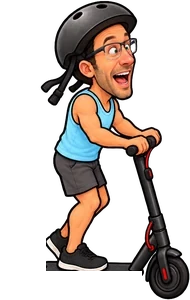
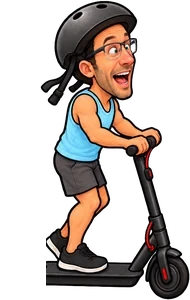
Sagi's scooter game: riders follow Sagi's trail 0.62 tile apart (tight line), his scooter whole as when alone (only the rear wheel goes), deck thin from the side like his own and continuing from his heel

Changed region(s): [[0.2368, 0.9, 0.7632, 0.96]]

diff --git a/public/sagi-games/scooter-snake/game.js b/public/sagi-games/scooter-snake/game.js
@@ -175,7 +175,9 @@ const tx = (c) => B.x + c * B.t, ty = (r) => B.y + r * B.t;
 // ───────────────────────── state ─────────────────────────
 let state = 'menu', paused = false, tutorial = false, moving = false;
 let score = 0, T = 0, prog = 0, dir = { x: 0, y: -1 }, queue = [], crash = null, runs = 0;
-let snake = [];          // [{ c, r, pc, pr, face, kind }] - head first; kind: 'sagi' | 1..6 | 'client'
+let snake = [];          // head first: Sagi { c, r, pc, pr, dx, dy, face } moves on the grid; the riders { kind, x, y, c, r, dx, dy, face }
+let trail = [];          // where Sagi has been (tile units, newest first) - the riders stand along it, SP apart
+const SP = 0.62;         // how far apart the riders stand on the long scooter, in tiles
 let food = null;         // { c, r, kind 1..6, t }
 let client = null;       // { c, r, life, max }
 let ofer = null;         // { c, r, pc, d, t, step, on }
@@ -184,9 +186,32 @@ const speed = () => Math.min(7.2, 3.3 + (snake.length - 1) * 0.11);
 
 function resetSnake() {
   snake = [{ c: START.c, r: START.r, pc: START.c, pr: START.r + 1, face: 1, dx: 0, dy: -1, kind: 'sagi' }];
+  trail = [{ x: START.c, y: START.r + 1 }, { x: START.c, y: START.r + 6 }];
   dir = { x: 0, y: -1 }; queue = []; prog = 0; crash = null;
 }
-const onSnake = (c, r, from = 0) => snake.some((s, i) => i >= from && s.c === c && s.r === r);
+const headPos = () => { const h = snake[0], k = moving ? clamp(prog, 0, 1) : 1; return { x: lerp(h.pc, h.c, k), y: lerp(h.pr, h.r, k) }; };
+const segPos = (s, i) => i === 0 ? headPos() : { x: s.x, y: s.y };
+const onSnake = (c, r, from = 0, near = 0.7) => snake.some((s, i) => { if (i < from) return false; const p = segPos(s, i); return Math.hypot(p.x - c, p.y - r) < near; });
+// the riders stand along Sagi's trail, SP apart; each faces the way the trail goes where they stand
+function placeRiders() {
+  const hp = headPos();
+  if (!trail.length || Math.hypot(trail[0].x - hp.x, trail[0].y - hp.y) > 0.04) trail.unshift(hp); else trail[0] = hp;
+  let seg = 0, acc = 0;
+  for (let i = 1; i < snake.length; i++) {
+    const want = i * SP, s = snake[i];
+    while (seg < trail.length - 1) {
+      const a = trail[seg], b = trail[seg + 1], L = Math.hypot(b.x - a.x, b.y - a.y);
+      if (acc + L >= want) { const u = L ? (want - acc) / L : 0; s.x = lerp(a.x, b.x, u); s.y = lerp(a.y, b.y, u);
+        const dx = a.x - b.x, dy = a.y - b.y; if (Math.abs(dx) > Math.abs(dy)) { s.dx = Math.sign(dx); s.dy = 0; s.face = s.dx; } else if (dy) { s.dx = 0; s.dy = Math.sign(dy); } break; }
+      acc += L; seg++;
+    }
+    if (seg >= trail.length - 1) { const e = trail[trail.length - 1]; s.x = e.x; s.y = e.y; }
+    s.c = Math.round(s.x); s.r = Math.round(s.y);
+  }
+  // keep only the trail the line needs
+  let need = (snake.length + 1) * SP + 1, d = 0;
+  for (let j = 1; j < trail.length; j++) { d += Math.hypot(trail[j].x - trail[j - 1].x, trail[j].y - trail[j - 1].y); if (d > need) { trail.length = j + 1; break; } }
+}
 function freeTile(avoidRow) {
   const h = snake[0];
   for (let k = 0; k < 400; k++) {
@@ -255,18 +280,13 @@ function tick() {
   const eats = food && food.c === nc && food.r === nr, meets = client && client.c === nc && client.r === nr;
   const grow = eats || meets;
   if (solid(nc, nr)) return die('wall');
-  if (onSnake(nc, nr, 1) && !(snake.length > 1 && !grow && snake[snake.length - 1].c === nc && snake[snake.length - 1].r === nr)) return die('self');
+  if (onSnake(nc, nr, 2, 0.5)) return die('self');
   if (ofer && ofer.on && ofer.c === nc && ofer.r === nr) return die('ofer');
-  const tail = snake[snake.length - 1], old = { c: tail.c, r: tail.r, face: tail.face, dx: tail.dx, dy: tail.dy };
-  for (let i = snake.length - 1; i >= 0; i--) {
-    const s = snake[i]; s.pc = s.c; s.pr = s.r;
-    if (i === 0) { s.c = nc; s.r = nr; } else { s.c = snake[i - 1].pc; s.r = snake[i - 1].pr; }
-    if (s.c !== s.pc || s.r !== s.pr) { s.dx = s.c - s.pc; s.dy = s.r - s.pr; }
-    if (s.c !== s.pc) s.face = s.c > s.pc ? 1 : -1;
-  }
+  const hd = snake[0]; hd.pc = hd.c; hd.pr = hd.r; hd.c = nc; hd.r = nr; hd.dx = dir.x; hd.dy = dir.y; if (dir.x) hd.face = dir.x;
+  const tail = snake[snake.length - 1], old = { x: tail.x ?? hd.pc, y: tail.y ?? hd.pr, face: tail.face, dx: tail.dx, dy: tail.dy };
   if (grow) {
     const kind = eats ? food.kind : 'client';
-    snake.push({ c: old.c, r: old.r, pc: old.c, pr: old.r, face: old.face, dx: old.dx, dy: old.dy, kind, join: 0 });
+    snake.push({ x: old.x, y: old.y, c: Math.round(old.x), r: Math.round(old.y), face: old.face, dx: old.dx, dy: old.dy, kind, join: 0 });
     const x = tx(nc + 0.5), y = ty(nr) - B.t * 0.6;
     if (eats) {
       if (!tutorial) score += 1;
@@ -301,8 +321,8 @@ function oferStep() {
   const nc = ofer.c + ofer.d;
   if (nc < 0 || nc >= COLS || onSnake(nc, ofer.r, 1)) { ofer.d *= -1; return; }   // he turns around at a wall or at your line
   ofer.pc = ofer.c; ofer.c = nc; ofer.t = 0;
-  const h = snake[0];
-  if (!tutorial && h.c === ofer.c && h.r === ofer.r) die('ofer');
+  const h = headPos();
+  if (!tutorial && Math.hypot(h.x - ofer.c, h.y - ofer.r) < 0.6) die('ofer');
 }
 function step(dt) {
   T += dt;
@@ -312,6 +332,7 @@ function step(dt) {
     prog += dt * speed();
     while (prog >= 1 && moving) { prog -= 1; tick(); }
   }
+  placeRiders();
   if (crash) crash.t += dt;
   // Ofer comes out of his meeting once Sagi has 3 listeners
   if (!tutorial && state === 'play' && !ofer && score >= 3) {
@@ -344,32 +365,43 @@ function ring(cx, cy, R, left) {
 // the long scooter: painted grip tape on top, the black body with its red trim showing on the near side, and the
 // painted rear wheel + tail light at the end (side view when the tail goes sideways, end-on when it goes up or down)
 let gripPat = null, gripFor = 0;
+const DECK = 0.25;                                   // his deck's top, above his tile's bottom (in tiles) - the long deck matches it
 function drawDeck(pts, tail, t) {
-  const h0 = snake[0]; pts = [{ x: pts[0].x + (h0.dx || 0) * t * 0.34, y: pts[0].y + (h0.dy || 0) * t * 0.2 }, ...pts];
   const n = pts.length, last = pts[n - 1];
   const bx = tail.dx || 0, by = tail.dy || 0;
-  const end = { x: last.x - bx * t * 0.42, y: last.y - by * t * 0.42 };
-  const Wd = t * 0.44, th = t * 0.11;
-  const path = (dy = 0) => { ctx.beginPath(); ctx.moveTo(pts[0].x, pts[0].y + dy); for (let i = 1; i < n; i++) ctx.lineTo(pts[i].x, pts[i].y + dy); ctx.lineTo(end.x, end.y + dy); };
+  const end = { x: last.x - bx * t * 0.36, y: last.y - by * t * 0.36 };
+  pts = [...pts, end];
+  // split the line into straight runs: sideways (thin, like his deck from the side) or up/down (wide, seen from above)
+  const runs = []; let cur = null;
+  for (let i = 1; i < pts.length; i++) {
+    const a = pts[i - 1], b = pts[i]; if (Math.hypot(b.x - a.x, b.y - a.y) < 0.5) continue;
+    const side = Math.abs(b.x - a.x) >= Math.abs(b.y - a.y);
+    if (!cur || cur.side !== side) { cur = { side, p: [a] }; runs.push(cur); }
+    cur.p.push(b);
+  }
   if (ok(IMG.grip) && gripFor !== t) { gripPat = ctx.createPattern(IMG.grip, 'repeat'); const k = t * 0.9 / 256; gripPat.setTransform(new DOMMatrix([k, 0, 0, k, 0, 0])); gripFor = t; }
+  const topY = -DECK * t, th = t * 0.17;              // the deck's top above the floor line, its side's height
+  const width = (r) => r.side ? t * 0.1 : t * 0.32;
+  const stroke = (style, wAdd, dy, wMul = 1) => { for (const r of runs) { ctx.strokeStyle = style; ctx.lineWidth = width(r) * wMul + wAdd; ctx.beginPath();
+    const cy = topY + width(r) / 2; r.p.forEach((q, i) => i ? ctx.lineTo(q.x, q.y + cy + dy) : ctx.moveTo(q.x, q.y + cy + dy)); ctx.stroke(); } };
   ctx.save(); ctx.lineCap = 'round'; ctx.lineJoin = 'round';
-  ctx.strokeStyle = '#13294b40'; ctx.lineWidth = Wd + t * 0.08; path(th + t * 0.07); ctx.stroke();      // shadow
-  ctx.strokeStyle = '#0c0c0f'; ctx.lineWidth = Wd; path(th); ctx.stroke();                              // the body's side
-  ctx.strokeStyle = '#e53935'; ctx.lineWidth = Wd; path(th * 0.62); ctx.stroke();                       // red trim
-  ctx.strokeStyle = '#1a1a1f'; ctx.lineWidth = Wd; path(th * 0.32); ctx.stroke();
-  ctx.strokeStyle = '#3a3a44'; ctx.lineWidth = Wd; path(); ctx.stroke();                                // the top's rim
-  ctx.strokeStyle = gripPat || '#222228'; ctx.lineWidth = Wd * 0.84; path(); ctx.stroke();               // grip tape
+  stroke('#13294b40', t * 0.06, th + t * 0.05);   // shadow
+  stroke('#0c0c0f', 0, th);                        // the side
+  stroke('#e53935', 0, th * 0.55);                 // red trim
+  stroke('#1a1a1f', 0, th * 0.25);
+  stroke('#3a3a44', 0, 0);                         // the top's rim
+  stroke(gripPat || '#222228', 0, 0, 0.8);         // grip tape
   ctx.restore();
   // the rear end
   if (bx) {
     const im = IMG['rear-s']; if (!ok(im)) return;
-    const h = t * 0.8, w = h * im.naturalWidth / im.naturalHeight;
-    ctx.save(); ctx.translate(end.x - bx * t * 0.12, end.y + th * 0.5); if (bx < 0) ctx.scale(-1, 1);          // the piece's deck stub points toward the riders
-    ctx.drawImage(im, -w * 0.28, -h * 0.64, w, h); ctx.restore();
+    const h = t * 0.62, w = h * im.naturalWidth / im.naturalHeight;
+    ctx.save(); ctx.translate(end.x, last.y); if (bx < 0) ctx.scale(-1, 1);
+    ctx.drawImage(im, -w * 0.3, -h, w, h); ctx.restore();
   } else {
     const im = IMG['rear-b']; if (!ok(im)) return;
-    const h = t * 0.7, w = h * im.naturalWidth / im.naturalHeight;
-    ctx.save(); ctx.translate(end.x, end.y); if (by > 0) ctx.scale(1, -1);
+    const h = t * 0.62, w = h * im.naturalWidth / im.naturalHeight;
+    ctx.save(); ctx.translate(end.x, end.y + topY); if (by > 0) ctx.scale(1, -1);
     ctx.drawImage(im, -w / 2, -h * 0.2, w, h); ctx.restore();
   }
 }
@@ -441,16 +473,25 @@ function draw(now) {
     icon('alert', cx, by - ch * 1.0, t * 0.5, now);
   } });
   const k = moving ? clamp(prog, 0, 1) : 1;
-  const pos = snake.map((s) => ({ x: tx(lerp(s.pc, s.c, k) + 0.5), y: ty(lerp(s.pr, s.r, k) + 1) - t * 0.22 }));
-  // Sagi's scooter grows: one long deck from his scooter to the last listener, a rear wheel at its end
-  // the deck turns where the line turned: between two riders it passes through the tile the front one just left
-  const path = []; pos.forEach((p, i) => { path.push(p); if (i < pos.length - 1) path.push({ x: tx(snake[i].pc + 0.5), y: ty(snake[i].pr + 1) - t * 0.22 }); });
-  if (snake.length > 1 && !crash) drawDeck(path, snake[snake.length - 1], t);
+  // the floor line under each one (screen px): Sagi's tile bottom; his deck's top is DECK above it
+  const foot = (p) => ({ x: tx(p.x + 0.5), y: ty(p.y + 1) });
+  const pos = snake.map((sg, i) => foot(segPos(sg, i)));
+  // Sagi's scooter grows: the deck goes back along his trail from his heel to the last listener, a rear wheel at its end
+  if (snake.length > 1 && !crash) {
+    const L = (snake.length - 1) * SP, path = [];
+    let d = 0; path.push(foot(trail[0]));
+    for (let j = 1; j < trail.length; j++) {
+      const a = trail[j - 1], b = trail[j], l = Math.hypot(b.x - a.x, b.y - a.y);
+      if (d + l >= L) { const u = l ? (L - d) / l : 0; path.push(foot({ x: lerp(a.x, b.x, u), y: lerp(a.y, b.y, u) })); break; }
+      d += l; path.push(foot(b));
+    }
+    drawDeck(path, snake[snake.length - 1], t);
+  }
   const view = (s) => s.dy < 0 ? ['b', false] : s.dy > 0 ? ['f', false] : ['s', s.face < 0];
   snake.forEach((s, i) => {
     const p = pos[i];
-    items.push({ y: (p.y + t * 0.22 - B.y) / t - 0.1 + (i === 0 ? 0.01 : 0), f: () => {
-      const cx = p.x, by = p.y + (i === 0 ? (snake.length > 1 && view(s)[0] === 's' ? t * 0.2 : t * 0.14) : t * 0.05), bounce = Math.abs(Math.sin(now * 10 + i * 0.7)) * t * 0.03;
+    items.push({ y: (p.y - B.y) / t - 0.1 + (i === 0 ? 0.01 : 0), f: () => {
+      const cx = p.x, by = i === 0 ? p.y : p.y - t * 0.22, bounce = Math.abs(Math.sin(now * 10 + i * 0.7)) * t * 0.03;
       const [v, flip] = view(s);
       if (i === 0) {
         if (crash) { shadow(cx, by, t * 1.1); sprite(IMG['sagi-crash'], cx + Math.sin(crash.t * 50) * Math.max(0, 1 - crash.t * 2) * 4, by, ch * 1.05, s.face < 0); return; }
@@ -465,8 +506,8 @@ function draw(now) {
   items.sort((a, b) => a.y - b.y).forEach((it) => it.f());
 
   if (bubble && snake[0]) {
-    const s = snake[0], c = lerp(s.pc, s.c, k), r = lerp(s.pr, s.r, k);
-    drawBubble(bubble.text, tx(c + 0.5), ty(r + 1) - ch * 1.05);
+    const hp = headPos();
+    drawBubble(bubble.text, tx(hp.x + 0.5), ty(hp.y + 1) - ch * 1.05);
   }
   // the joystick under the thumb
   if (joy.on) {
@@ -631,7 +672,12 @@ layout(); hud(); showBest(); requestAnimationFrame(frame);
 // for the tests
 window.SNAKE = {
   get state() { return state; }, get score() { return score; }, get snake() { return snake; }, get food() { return food; }, get client() { return client; },
-  get ofer() { return ofer; }, get tut() { return tut.on; }, get tutStep() { return tut.i; }, get tutTry() { return (STEPS[tut.i] || {}).try; }, get moving() { return moving; }, set moving(v) { moving = v; }, set snakeForTest(v) { snake = v; }, get dir() { return dir; },
+  get ofer() { return ofer; }, get tut() { return tut.on; }, get tutStep() { return tut.i; }, get tutTry() { return (STEPS[tut.i] || {}).try; }, get moving() { return moving; }, set moving(v) { moving = v; }, setLineForTest(cells, n) {   // cells: the trail's corners, head first (tile coords); n riders
+    moving = false; const [c, r] = cells[0], [c2, r2] = cells[1];
+    snake = [{ c, r, pc: c2, pr: r2, dx: Math.sign(c - c2), dy: Math.sign(r - r2), face: c < c2 ? -1 : 1, kind: 'sagi' }];
+    for (let i = 1; i <= n; i++) snake.push({ kind: i > 6 ? 'client' : i, join: 1, x: c, y: r, face: 1, dx: 0, dy: 0 });
+    trail = cells.map(([x, y]) => ({ x, y })); placeRiders();
+  }, get dir() { return dir; },
   get B() { return B; }, get props() { return props; }, solid, want, DIRS, startGame, COLS, ROWS, OFR,
   setSpeedForTest(v) { window.__spd = v; },
 };

diff --git a/scripts/sagi-games/scooter-snake/tools/t3-deck.js b/scripts/sagi-games/scooter-snake/tools/t3-deck.js
@@ -1,39 +1,25 @@
-// close-up of the long scooter in fixed shapes (a straight line, corners, the tail going up / down): node t3-deck.js [url]
+// close-up of the long scooter in fixed shapes (straight both ways, corners, up, down): node t3-deck.js [url]
 const path = require('path'), fs = require('fs');
 const { chromium } = require(path.join(process.env.USERPROFILE, 'plaxzy-creator/node_modules/playwright-core'));
 const URL = process.argv[2] || 'http://localhost:8766/sagi-games/scooter-snake/?solo=1&notrack=1';
 const OUT = path.join(__dirname, 'shots'); fs.mkdirSync(OUT, { recursive: true });
 const sleep = (ms) => new Promise((r) => setTimeout(r, ms));
-// each shape: list of [c, r] head first; dx/dy = the way each one is going (toward the one before it)
-const SHAPES = {
-  right: [[6, 11], [5, 11], [4, 11], [3, 11], [2, 11]],
-  lshape: [[6, 13], [6, 12], [6, 11], [5, 11], [4, 11], [3, 11]],
-  up: [[4, 9], [4, 10], [4, 11], [4, 12], [4, 13]],
-  down: [[4, 13], [4, 12], [4, 11], [4, 10], [4, 9]],
-  left: [[2, 11], [3, 11], [4, 11], [5, 11], [6, 11]],
+const SHAPES = {   // the trail's corners, head first
+  right: [[7, 11], [1, 11]], left: [[1, 11], [8, 11]],
+  lshape: [[6, 13], [6, 11], [0, 11]], up: [[4, 8], [4, 14]], down: [[4, 13], [4, 7]],
+  zig: [[7, 13], [7, 12], [4, 12], [4, 10], [8, 10]],
 };
 (async () => {
   const br = await chromium.launch({ executablePath: 'C:/Program Files/Google/Chrome/Application/chrome.exe' });
   const pg = await br.newPage({ viewport: { width: 390, height: 844 }, deviceScaleFactor: 2 });
-  await pg.goto(URL); await sleep(1200);
-  await pg.evaluate(() => { localStorage.setItem('shlomiverse:scooter-snake:tut', '1'); });
-  await pg.click('#playBtn', { force: true }); await sleep(800);
+  await pg.goto(URL); await sleep(1000);
+  await pg.evaluate(() => localStorage.setItem('shlomiverse:scooter-snake:tut', '1'));
+  await pg.click('#playBtn', { force: true }); await sleep(3000);   // let the start bubble go
   for (const [name, cells] of Object.entries(SHAPES)) {
-    await pg.evaluate((cells) => {
-      const S = window.SNAKE; S.moving = false;
-      const kinds = ['sagi', 1, 2, 3, 4, 5, 6];
-      S.snakeForTest = cells.map(([c, r], i) => {
-        const prev = i ? cells[i - 1] : null, next = cells[i + 1];
-        let dx, dy;
-        if (prev) { dx = prev[0] - c; dy = prev[1] - r; } else { dx = c - next[0]; dy = r - next[1]; }
-        return { c, r, pc: c, pr: r, dx, dy, face: dx < 0 ? -1 : 1, kind: kinds[i], join: 1 };
-      });
-      // the corner points use pc/pr of the one in front: set them to where it came from
-      const sn = window.SNAKE.snake; for (let i = 0; i < sn.length - 1; i++) { sn[i].pc = sn[i + 1].c; sn[i].pr = sn[i + 1].r; sn[i].c = sn[i].c; }
-    }, cells);
-    await sleep(250);
+    await pg.evaluate((cells) => window.SNAKE.setLineForTest(cells, 6), cells);
+    await sleep(200);
     const B = await pg.evaluate(() => window.SNAKE.B);
-    await pg.screenshot({ path: path.join(OUT, `deck-${name}.png`), clip: { x: B.x, y: B.y + B.t * 6, width: B.t * 9, height: B.t * 9 } });
+    await pg.screenshot({ path: path.join(OUT, `deck-${name}.png`), clip: { x: B.x, y: B.y + B.t * 5.5, width: B.t * 9, height: B.t * 9 } });
   }
   await br.close(); console.log('ok');
 })();

diff --git a/public/sagi-games/scooter-snake/index.html b/public/sagi-games/scooter-snake/index.html
@@ -184,6 +184,6 @@ body.turn #turn{display:flex}
     <button id="tutNext">הבא <span class="keyhint">(רווח)</span></button>
   </div>
 </div>
-<script src="game.js?v=9"></script>
+<script src="game.js?v=10"></script>
 </body>
 </html>
